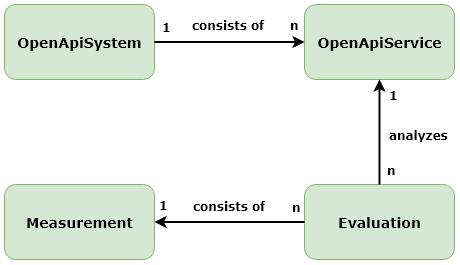
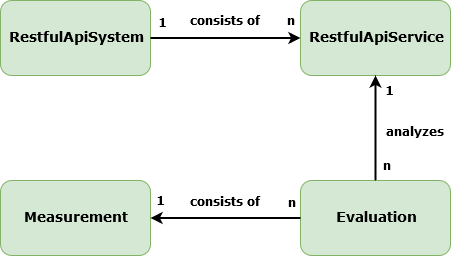
[docs]  add entities + metrics

Changed region(s): [[0.0, 0.0, 1.0, 1.0], [0.714, 0.8125, 0.9313, 0.875]]

diff --git a/docs/devguide.md b/docs/devguide.md
@@ -1,74 +1,48 @@
-# RESTful API Metric Analyzer CLI
-The RESTful API Metric Analyzer CLI (RAMA) is a tool that can evaluate the maintainability of restful APIs based on their API description.
-Currently RAMA can evaluate APIs that are written in the following RESTful API Description Languages:
-* OpenAPI V3 https://github.com/OAI/OpenAPI-Specification
-* RAML 1.0 https://github.com/raml-org/raml-spec/blob/master/versions/raml-10/raml-10.md/
-* WADL https://www.w3.org/Submission/wadl/
-
-RAMA is developed as a s Java based command-line tool.
-
-RAMA expects a specification file and returna a maintainability report as JSON or PDF.
-<br> The maintainability report consists of general information and  maintainability metrics that are described in [Metrics](###Metrics) 
-<br>Example
-```bash
-# Run with public URI:
-java -jar ./target/openapi-evaluation-cli-0.0.5-jar-with-dependencies.jar -uri http://url-to-swagger-file.com -format openapi
-```
-produces following output
-
-
-
-# How to use RAMA CLI
-## How to build RAMA CLI
-## How to run  
-### Command-line Options
-
-| Option        | Description   | Required|
-| :-------------|:--------------|:--------|
-| -uri $URI_PATH    | The option -uri is used, if the specification file is located in the web. | YES* 
-| -file $FILE_PATH  |  The option -file is used, if the OpenAPI specification is located on the local computer. | YES*
-| -format $FORMAT  |  The option -format is used to decide which specifiaction file format should be analysed. Allowed $Format are openapi, raml, wadl | YES
-| -pdf $OUTPUT_PATH |  The option -pdf is used, if the user wants an PDF output. A path must be specified behind which the file is saved. | NO** 
-| -json $OUTPUT_PATH | The option -json is used, if the user wants an JSON output. A path must be specified behind which the file is saved. | NO**
-
-*Either a file or a uri has to be specified 
-<br>**If no additional output was specified the report will be only displayed on the console. 
-
-Example 
-```bash
-# Run with public URI:
-java -jar ./target/openapi-evaluation-cli-0.0.5-jar-with-dependencies.jar -uri http://url-to-swagger-file.com -pdf path/to/file.pdf -json path/to/file.json -format openapi
-
-# Run with local file:
-java -jar ./target/openapi-evaluation-cli-0.0.5-jar-with-dependencies.jar -file path/to/file.yaml -pdf path/to/file.pdf -json path/to/file.json -format openapi
-
-# Run petstore example with public URL:
-java -jar ./target/openapi-evaluation-cli-0.0.5-jar-with-dependencies.jar -uri https://raw.githubusercontent.com/OAI/OpenAPI-Specification/master/examples/v3.0/petstore-expanded.yaml -format openapi
-
-# Run customer-srv example with local URL:
-java -jar ./target/openapi-evaluation-cli-0.0.5-jar-with-dependencies.jar -file ./src/test/resources/CustomerSrv-openapi.yaml -format openapi
-
-```
-
-
-# How to Contribute
+# Developement Guide
 ## RAMA CLI General Architecture
 ### UML Sequence Diagram
 Description of the tools behaviour if it is started via command-line.
 ![Sequence Diagram](sequence.png)
+
 #### Main
 Entry point of the tool. Command-line [options](###Command-line Options) are detected and passed to the ApplicationService.
 #### ApplicationService
-Consist the logic to create:
-* Service
+
+the ApplicationService is responsible for creating:
+* RestfulApiSystem 
+* RestfulApiService
 * Evaluations
 * Measurement
+
+| Class        | Responsibility   | 
+| :-------------|:--------------|
+|RestfulApiSystem|One system can consist of multiple APIs. This Entity is used to store the system name and a list of `RestfulApiServices`. For the usage in the command-line this is not used. Can be used in combination of the [other tools](#Other%20Tools).   |
+|RestfulApiService|Represents a single specification file. Can store meta information like name or the file. Also stores a list of `Evaluations`. This entity is later used by the `RestfulServiceMapper` to generate PDF or JSON files. |
+|Evaluations|Contains multiple `Measurements` and also other metadata|
+|Measurement|Represents the measurement of a single metric|
+
+![Domain Diagram](domain-model.png)
+
+
+
 #### Parsers
-All Parsers 
+All Parsers inherit from the `Parser.java` class.
+The Parser are responsible for transforming specification files from each format to our [Internal API Model](####Internal%20API%20Model)
 #### Internal API Model
-#### Metrics
+TODO 
+
 ## How to add or modify  parsers ?
 ## How to add or modify metrics ?
 ## How to add or modify tests  ?
+# Metrics
+The tool currently has 10 metrics that are described as follows:
+* [Argument per Operation (APO)](metrics/ArgumentsPerOperation.md)
+* [Average Path Length (APL)](metrics/AveragePathLength.md)
+* [Biggest Root Coverage (BRC)](metrics/BiggestrootCoverage.md)
+* [DataWeight (DW)](metrics/DataWeight.md)
+* [Longest Path (LP)](metrics/LongestPath.md)
+* [Number Of Root Resources (NOR)](metrics/NumberOfRoots)
+* [Service Interface Data Cohesion (SIDC)](metrics/ServiceInterfaceDataCohesion.md)
+* [Weighted Service Interface Count (WSIC)](metrics/WeightedServiceInterfaceCount.md)
 
 # Other Tools

diff --git a/README.md b/README.md
@@ -8,7 +8,7 @@ Currently RAMA can evaluate APIs that are written in the following RESTful API D
 RAMA is developed as a s Java based command-line tool.
 
 RAMA expects a specification file and returna a maintainability report as JSON or PDF.
-<br> The maintainability report consists of general information and  maintainability metrics that are described in [Metrics](###Metrics) 
+<br> The maintainability report consists of general information and  maintainability metrics that are described in [Metrics](docs/devguide.md#Metrics)
 <br>Example
 ```bash
 # Run with public URI:
